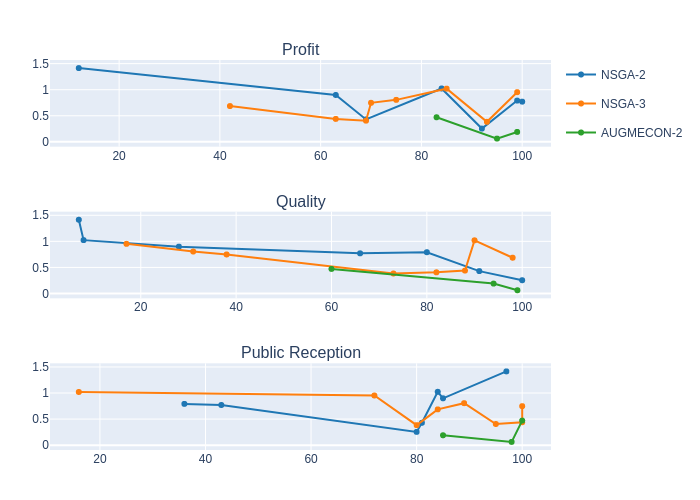
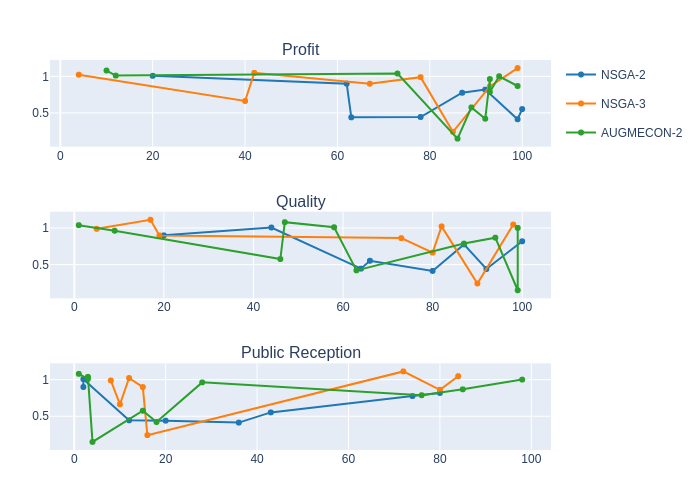
change: set level_diagrams to accept objective sense to normalize frontiers

diff --git a/README.md b/README.md
@@ -265,19 +265,18 @@ The resulting figure would look like this:
 #### Level Diagrams
 
 ```julia
-using JuMENTO, Random
-
-Random.seed!(1)
-
-m=3
+using JuMENTO
 
 cats = ["Profit", "Quality", "Public Reception"]
 names = ["NSGA-2", "NSGA-3", "AUGMECON-2"]
 
-v1 = JuMENTO.generate_pareto(rand(1:100.0, m, 30), 1e-6)
-v2 = JuMENTO.generate_pareto(rand(1:100.0, m, 24), 1e-6)
-v3 = JuMENTO.generate_pareto(rand(1:100.0, m, 100), 1e-6)
-fig = MultiPlots.level_diagrams([v1, v2, v3], categories=cats, names_set=names)
+sens = [:max, :max, :min]
+
+v1 = [63.0 62.0 87.0 20.0 100.0 78.0 92.0 99.0; 92.0 20.0 87.0 44.0 66.0 64.0 100.0 80.0; 20.0 2.0 74.0 2.0 43.0 12.0 80.0 36.0]
+v2 = [42.0 99.0 78.0 67.0 85.0 4.0 40.0 93.0; 98.0 17.0 5.0 19.0 90.0 82.0 80.0 73.0; 84.0 72.0 8.0 15.0 16.0 12.0 10.0 80.0]
+v3 = [92.0 93.0 89.0 86.0 95.0 93.0 10.0 12.0 73.0 99.0; 63.0 9.0 46.0 99.0 99.0 87.0 47.0 58.0 1.0 94.0; 18.0 28.0 15.0 4.0 98.0 76.0 1.0 3.0 3.0 85.0]
+
+fig = MultiPlots.level_diagrams([v1, v2, v3], categories=cats, sense_set=sens, name_set=names)
 ```
 
 The resulting figure would look like this:
